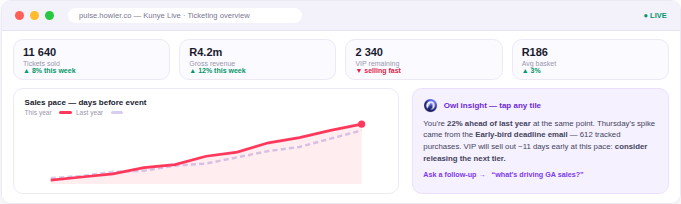
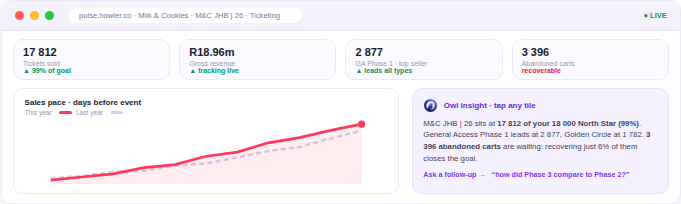
Sales pitch pack v7: personalise for Milk & Cookies with live Pulse data
Mockups now carry Milk & Cookies' real numbers pulled live via the Pulse
connector on 2026-07-09: M&C JHB | 26 at 17 812 tickets / R18.96m gross
(99% of the 18 000 North Star), ticket-type breakdown (GA Phase 1 leads at
2 877, Golden Circle 1 782), real segments (Abandoned carts 3 396, Buyer
Age 18-22 1 775), the real draft campaign subject line, and 16 487 combined
check-ins. Deck title slide marked prepared-for.

Claude-Session: https://claude.ai/code/session_016kfeoZ1Zgn8t5cLdc8YKFo

diff --git a/docs/sales-collateral/pulse-pitch.src.html b/docs/sales-collateral/pulse-pitch.src.html
@@ -66,7 +66,7 @@
   .goalcard h5 { font-size: 8px; margin-bottom: 1.2mm; }
   .goalcard .lbl { display: flex; justify-content: space-between; font-size: 7px; color: #55556d; margin-bottom: 1mm; }
   .gbar { height: 2.4mm; border-radius: 99px; background: #efecf8; overflow: hidden; }
-  .gbar i { display: block; height: 100%; width: 78%; border-radius: 99px; background: linear-gradient(90deg, #FF385C, #FF6B35); }
+  .gbar i { display: block; height: 100%; width: 99%; border-radius: 99px; background: linear-gradient(90deg, #FF385C, #FF6B35); }
   .goalcard .pace { font-size: 7px; color: #059669; font-weight: 800; margin-top: 1.2mm; }
   .kpis { display: flex; gap: 2mm; margin: 0 2.5mm 3mm; }
   .kpi { flex: 1; border: 1px solid #ece9f5; border-radius: 2.6mm; padding: 2mm; }
@@ -283,7 +283,7 @@
   <div class="hero">
     <div style="display:flex; align-items:center; gap:3mm; margin-bottom:3mm;">
       <img src="howler-logo.png" style="width:9mm; height:9mm; border-radius:2.2mm;">
-      <div class="kicker" style="margin-bottom:0;">Howler presents</div>
+      <div class="kicker" style="margin-bottom:0;">Howler presents · prepared for Milk &amp; Cookies</div>
     </div>
     <h1>Pulse<span class="grad-text">.</span> Your event's data,<br>finally <span class="grad-text">working for you</span>.</h1>
     <p class="sub"><b>Pulse is the Experience OS for event organisers</b>: one white-label platform that turns your ticketing, cashless and web data into <b>insight → action → results</b>. Live dashboards, an AI analyst that explains your numbers, scheduled briefings, and a full email/SMS campaign engine, all powered by the same governed data, all scoped to you, all in your brand, all on your phone.</p>
@@ -310,13 +310,13 @@
   <div class="quote">"It's not dashboards <i>and</i> email <i>and</i> reports, it's one living loop. Your data tells you what to do, you do it in the same place, and the result makes the next call smarter. The longer you use Pulse, the better it gets."</div>
 
     <div class="browser" style="margin-top:4mm;">
-    <div class="b-bar"><i></i><i></i><i></i><span>pulse.howler.co · Kunye Live · Ticketing overview</span><em>● LIVE</em></div>
+    <div class="b-bar"><i></i><i></i><i></i><span>pulse.howler.co · Milk &amp; Cookies · M&amp;C JHB | 26 · Ticketing</span><em>● LIVE</em></div>
     <div class="b-body">
       <div class="dkpis">
-        <div class="dk"><div class="v">11 640</div><div class="k">Tickets sold</div><div class="d">▲ 8% this week</div></div>
-        <div class="dk"><div class="v">R4.2m</div><div class="k">Gross revenue</div><div class="d">▲ 12% this week</div></div>
-        <div class="dk"><div class="v">2 340</div><div class="k">VIP remaining</div><div class="d down">▼ selling fast</div></div>
-        <div class="dk"><div class="v">R186</div><div class="k">Avg basket</div><div class="d">▲ 3%</div></div>
+        <div class="dk"><div class="v">17 812</div><div class="k">Tickets sold</div><div class="d">▲ 99% of goal</div></div>
+        <div class="dk"><div class="v">R18.96m</div><div class="k">Gross revenue</div><div class="d">▲ tracking live</div></div>
+        <div class="dk"><div class="v">2 877</div><div class="k">GA Phase 1 · top seller</div><div class="d">▲ leads all types</div></div>
+        <div class="dk"><div class="v">3 396</div><div class="k">Abandoned carts</div><div class="d down">recoverable</div></div>
       </div>
       <div style="display:flex; gap:3.5mm;">
         <div class="chartcard">
@@ -331,13 +331,13 @@
         </div>
         <div class="owlpanel">
           <h6><img src="owl-mark.png" style="width:4mm; height:4mm; border-radius:50%;"> Owl insight · tap any tile</h6>
-          <p>You're <b>22% ahead of last year</b> at the same point. Thursday's spike came from the <b>Early-bird deadline email</b>: 612 tracked purchases. VIP will sell out ~11 days early at this pace: <b>consider releasing the next tier.</b></p>
-          <div class="ask">Ask a follow-up → &nbsp; “what's driving GA sales?”</div>
+          <p>M&amp;C JHB | 26 sits at <b>17 812 of your 18 000 North Star (99%)</b>. General Access Phase 1 leads at 2 877, Golden Circle at 1 782. <b>3 396 abandoned carts</b> are waiting: recovering just 6% of them closes the goal.</p>
+          <div class="ask">Ask a follow-up → &nbsp; “how did Phase 3 compare to Phase 2?”</div>
         </div>
       </div>
     </div>
   </div>
-  <div class="mockcap">Live dashboards with the Owl one tap away, every number explained, every insight one tap from action.</div>
+  <div class="mockcap">Live dashboards with the Owl one tap away. Screens are illustrative; the numbers are Milk &amp; Cookies' real Pulse data, pulled live on 9 July 2026.</div>
 
 <div class="foot"><span style="display:flex; align-items:center; gap:1.6mm;"><img src="howler-logo.png" style="width:3.6mm; height:3.6mm; border-radius:1mm;"><b>Pulse</b> · The Experience OS by Howler</span><span>howler-pulse-v2.onrender.com</span><span>Page 1 of 7</span></div>
 </div>
@@ -388,24 +388,24 @@
   </div>
 
     <div class="mailwin" style="margin-top:4mm;">
-    <div class="m-bar">✉️ <b>☀️ Your Friday briefing · Kunye Live</b><span>from Kunye Live via Pulse · Fridays 07:00 · to the exec team</span></div>
+    <div class="m-bar">✉️ <b>☀️ Your Friday briefing · Milk &amp; Cookies</b><span>from Milk &amp; Cookies via Pulse · Fridays 07:00 · to the exec team</span></div>
     <div class="m-body">
       <div style="flex:1.25;">
-        <div style="font-size:8.4px; color:#44445c; line-height:1.55;"><b style="color:#1a1a2e;">Morning! The short version:</b> a strong week, 1 208 tickets (+8%), revenue R4.2m (+12%). VIP is 61% sold and pacing to sell out early. Web traffic dipped Tuesday but converted better than ever.</div>
+        <div style="font-size:8.4px; color:#44445c; line-height:1.55;"><b style="color:#1a1a2e;">Morning! The short version:</b> M&amp;C JHB | 26 stands at 17 812 tickets, 99% of the 18 000 goal, with R18.96m gross. General Access Phase 1 leads (2 877); Golden Circle holds 1 782. 188 tickets to go.</div>
         <div class="m-chips">
-          <div class="m-chip"><b>1 208</b>tickets this week <span class="up">▲ 8%</span></div>
-          <div class="m-chip"><b>R4.2m</b>gross revenue <span class="up">▲ 12%</span></div>
-          <div class="m-chip"><b>61%</b>VIP sold</div>
-          <div class="m-chip"><b>3.1%</b>site conversion <span class="up">▲ 0.4pt</span></div>
+          <div class="m-chip"><b>17 812</b>tickets sold <span class="up">▲ 99% of goal</span></div>
+          <div class="m-chip"><b>R18.96m</b>gross revenue</div>
+          <div class="m-chip"><b>1 782</b>Golden Circle</div>
+          <div class="m-chip"><b>3 396</b>abandoned carts</div>
         </div>
       </div>
       <div style="flex:1; border-left:1px solid #efecf8; padding-left:4mm;">
         <div style="font-size:7.4px; font-weight:800; color:#9a97ad; text-transform:uppercase; letter-spacing:.8px; margin-bottom:1.4mm;">Suggested actions</div>
-        <div class="m-act">→ <b>Release the next VIP tier</b> before the weekend surge<br>→ <b>Recover 96 abandoned carts</b>: start the drip journey<br>→ <b>Boost the Thursday email</b> to the lookalike audience</div>
+        <div class="m-act">→ <b>Recover the 3 396 abandoned carts</b>: 188 sales closes the goal<br>→ <b>Send “Everyone's going. Are you? 🍪”</b> to the 18–22 audience (1 775 reachable)<br>→ <b>Set the sell-out alert</b> at 18 000 tickets</div>
       </div>
     </div>
   </div>
-  <div class="mockcap">The scheduled digest: a role-specific read of the week, in their inbox, with the next actions attached.</div>
+  <div class="mockcap">The scheduled digest, built on Milk &amp; Cookies' live numbers: a role-specific read of the week, with the next actions attached.</div>
 
 <div class="foot"><span style="display:flex; align-items:center; gap:1.6mm;"><img src="howler-logo.png" style="width:3.6mm; height:3.6mm; border-radius:1mm;"><b>Pulse</b> · The Experience OS by Howler</span><span>howler-pulse-v2.onrender.com</span><span>Page 2 of 7</span></div>
 </div>
@@ -440,20 +440,20 @@
     <!-- Phone 1: home briefing -->
     <div class="phone">
       <div class="notch"></div>
-      <div class="p-head"><div class="p-logo">K</div><b>Kunye Live</b><span>⚙</span></div>
+      <div class="p-head"><div class="p-logo" style="font-size:6px;">M&amp;C</div><b>Milk &amp; Cookies</b><span>⚙</span></div>
       <div class="brief">
         <h5>🦉 Your morning briefing</h5>
-        <p><b>Strong night:</b> 412 tickets sold (+31% vs same day last event). VIP is pacing to sell out ~11 days early, <b>consider releasing the next tier</b>. <b>Tap to act →</b></p>
+        <p><b>So close:</b> M&amp;C JHB | 26 is at 17 812 of 18 000 (99%). 3 396 abandoned carts are recoverable, <b>a small recovery drip closes the goal</b>. <b>Tap to act →</b></p>
       </div>
       <div class="goalcard">
-        <h5>🎯 North Star · 15 000 tickets</h5>
-        <div class="lbl"><span>11 640 sold</span><span>78%</span></div>
+        <h5>🎯 North Star · 18 000 tickets</h5>
+        <div class="lbl"><span>17 812 sold</span><span>99%</span></div>
         <div class="gbar"><i></i></div>
-        <div class="pace">▲ Ahead of pace · projected 15 400</div>
+        <div class="pace">▲ On track · 188 to go</div>
       </div>
       <div class="kpis">
-        <div class="kpi"><div class="v">R4.2m</div><div class="k">Gross revenue</div><div class="d">▲ 12% WoW</div></div>
-        <div class="kpi"><div class="v">2 340</div><div class="k">VIP remaining</div><div class="d">▼ selling fast</div></div>
+        <div class="kpi"><div class="v">R18.96m</div><div class="k">Gross revenue</div><div class="d">▲ live</div></div>
+        <div class="kpi"><div class="v">3 396</div><div class="k">Abandoned carts</div><div class="d">recoverable</div></div>
       </div>
     </div>
     <!-- Phone 2: WhatsApp Owl -->
@@ -462,20 +462,20 @@
       <div class="wa">
         <div class="wa-head"><img src="owl-mark.png" style="width:5.5mm; height:5.5mm; border-radius:50%;"><div><b>Pulse Owl</b><span>online</span></div></div>
         <div class="wa-body">
-          <div class="bub me">how are ticket sales looking today?</div>
-          <div class="bub owl"><b>Good morning! 3 187 tickets</b> so far today, 22% ahead of the same day last year. General is your fastest mover.
-            <div class="mini-chart"><i style="height:34%"></i><i style="height:46%"></i><i style="height:42%"></i><i style="height:58%"></i><i style="height:71%"></i><i style="height:64%"></i><i style="height:92%"></i></div>
-            <div class="cap">Daily sales, last 7 days</div>
+          <div class="bub me">how are ticket sales looking for JHB?</div>
+          <div class="bub owl"><b>M&amp;C JHB | 26: 17 812 tickets</b>, that's 99% of your 18 000 goal. General Access Phase 1 leads with 2 877.
+            <div class="mini-chart"><i style="height:100%"></i><i style="height:56%"></i><i style="height:78%"></i><i style="height:34%"></i><i style="height:62%"></i><i style="height:37%"></i></div>
+            <div class="cap">GA P1 · P2 · P3 · P4 · Golden Circle · VIP</div>
           </div>
-          <div class="replies"><span>Break down by ticket type</span><span>Compare to last year</span><span>Alert me at 5 000</span></div>
+          <div class="replies"><span>How many abandoned carts?</span><span>Compare to Cape Town</span><span>Alert me at 18 000</span></div>
         </div>
       </div>
     </div>
     <!-- ChatGPT / Claude card -->
     <div style="display:flex; flex-direction:column; gap:4mm; width:62mm;">
       <div class="chatgpt">
-        <div class="q">How big is the VIP segment, and how did the launch campaign do?</div>
-        <div class="a">Your <b>VIP Buyers</b> segment currently holds <b>1 842 contactable people</b>. The launch campaign reached 14 210, with a <b>38% open rate</b> and <b>612 tracked purchases</b>.</div>
+        <div class="q">How big is our abandoned-cart audience, and where are we against the ticket goal?</div>
+        <div class="a">Your <b>Abandoned carts</b> segment holds <b>3 396 contactable people</b>. Ticket sales stand at <b>17 812 of the 18 000 North Star (99%)</b>, with General Access Phase 1 the top seller at 2 877.</div>
         <div class="src" style="display:flex; align-items:center; gap:1.4mm;"><img src="owl-mark.png" style="width:3mm; height:3mm; border-radius:50%;"> in ChatGPT &amp; Claude · via the Pulse connector · scoped to your events</div>
       </div>
       <div style="border:1px solid #ece9f5; border-radius:3mm; background:#fbfaff; padding:3mm 3.5mm;">
@@ -520,11 +520,11 @@
     <div class="mk"><h4>📣 Live data → your ad accounts</h4><p>Push any segment to <b>Meta or TikTok as a Custom Audience</b>: hashed before it leaves, mirrored daily, leavers removed automatically. Exclude buyers from prospecting. Then see <b>spend, CPC and ROAS next to actual ticket sales</b>.</p></div>
     <div class="journey">
       <h4>🗺 Complex journeys, simple setup</h4>
-      <div class="jrow"><div class="jl">1 · Reminder email</div><div class="jbar"><i style="width:100%"></i></div><div class="jv">2 480 sent</div></div>
+      <div class="jrow"><div class="jl">1 · Reminder email</div><div class="jbar"><i style="width:100%"></i></div><div class="jv">3 396 enrolled</div></div>
       <div class="jrow"><div class="jl">2 · +4h nudge</div><div class="jbar"><i style="width:64%"></i></div><div class="jv">58% opened</div></div>
       <div class="jrow"><div class="jl">3 · +24h promo SMS</div><div class="jbar"><i style="width:38%"></i></div><div class="jv">31% clicked</div></div>
-      <div class="jconv">✓ 214 recovered purchases · buyers auto-exit the journey</div>
-      <p style="font-size:9.6px; color:#55556d; margin-top:2mm; line-height:1.5;">Timed multi-step drips with per-step copy, promo and delays, true real-time abandoned-cart, or work an existing list forward.</p>
+      <div class="jconv">✓ 188 recoveries would close the 18 000 goal · buyers auto-exit</div>
+      <p style="font-size:9.6px; color:#55556d; margin-top:2mm; line-height:1.5;">Your real Abandoned carts segment (3 396 people) worked automatically: timed steps, per-step copy and promo, true real-time enrolment. Step rates shown are illustrative.</p>
     </div>
     <div class="mk"><h4>✨ An AI creative studio inside</h4><p>The Owl drafts the copy, designs the <b>whole themed email layout</b>, and draws <b>on-brand banners</b> from a one-line prompt. Pick a theme, tweak in the drag-and-drop builder, save as a template. Any campaign in any language.</p></div>
     <div class="mk"><h4>💰 Attribution you can defend</h4><p>Per-recipient <b>opens, clicks and tracked purchases</b>; UTM on every link; unique-per-person promo codes that tie a sale to a send. Campaign results flow back into the same dashboards you plan from.</p></div>
@@ -535,13 +535,13 @@
 
   <div class="pairrow">
     <div class="builder">
-      <div class="bd-bar">✨ Owl email designer<span>theme: Bold · brand: Kunye Live</span></div>
+      <div class="bd-bar">✨ Owl email designer<span>theme: Bold · brand: Milk &amp; Cookies</span></div>
       <div class="bd-body">
         <div class="mailprev">
-          <div class="mp-head"><div class="lg"></div><b>Kunye Live</b></div>
-          <div class="hero-b">LAST CHANCE ⚡</div>
+          <div class="mp-head"><div class="lg"></div><b>Milk &amp; Cookies</b></div>
+          <div class="hero-b">LAST CRUMBS 🍪</div>
           <div class="mp-body">
-            <h6>Early-bird ends Sunday, {{name}}</h6>
+            <h6>Everyone's going. Are you, {{name}}?</h6>
             <div class="tline"></div><div class="tline"></div><div class="tline w70"></div>
             <span class="mp-btn">Get your tickets →</span>
           </div>
@@ -551,7 +551,7 @@
           <div class="themechips"><span class="tc">Clean</span><span class="tc on">Bold ✓</span><span class="tc">Warm</span><span class="tc">Minimal</span></div>
           <h6 style="margin-top:1mm;">Blocks</h6>
           <div class="blockrow">☰ &nbsp;Heading</div>
-          <div class="blockrow">🖼 &nbsp;AI banner, “sunset festival, last chance”</div>
+          <div class="blockrow">🖼 &nbsp;AI banner, “picnic at dusk, last crumbs”</div>
           <div class="blockrow">🔘 &nbsp;Button → checkout (tracked)</div>
           <div class="aibtn">✨ Design with AI</div>
         </div>
@@ -560,14 +560,14 @@
     <div class="adsync">
       <div class="bd-bar">📣 Ad audiences<span>mirrored to your ad accounts</span></div>
       <div class="ad-body">
-        <div class="adrow"><div class="adlogo meta">f</div><div class="t"><b>VIP Buyers → Meta Custom Audience</b><span>1 842 synced · ≈1 500 matched · auto-sync daily</span></div><span class="adchip">● Healthy</span></div>
-        <div class="adrow"><div class="adlogo tt">♪</div><div class="t"><b>Abandoned carts → TikTok</b><span>2 306 synced · refreshed 2h ago</span></div><span class="adchip">● Healthy</span></div>
-        <div class="adrow"><div class="adlogo meta">f</div><div class="t"><b>Already bought → exclusion list</b><span>mirrored, buyers leave the ads automatically</span></div><span class="adchip">● Healthy</span></div>
+        <div class="adrow"><div class="adlogo meta">f</div><div class="t"><b>Abandoned carts → Meta Custom Audience</b><span>3 396 synced · auto-sync daily</span></div><span class="adchip">● Healthy</span></div>
+        <div class="adrow"><div class="adlogo tt">♪</div><div class="t"><b>Buyer Age 18 to 22 → TikTok</b><span>1 775 synced · 1 750 SMS-reachable too</span></div><span class="adchip">● Healthy</span></div>
+        <div class="adrow"><div class="adlogo meta">f</div><div class="t"><b>Already bought → exclusion list</b><span>17 812 buyers leave the ads automatically</span></div><span class="adchip">● Healthy</span></div>
       </div>
       <div class="ad-note">🔒 Emails &amp; phones are hashed before they leave Pulse, the platforms never see raw contact details.</div>
     </div>
   </div>
-  <div class="mockcap">The Owl designs the email; Pulse keeps your ad audiences mirrored, fresh cohorts in, buyers out, every day.</div>
+  <div class="mockcap">The Owl designs the email (that subject line is a real draft in your account); the audiences are your real segments, mirrored daily.</div>
 
 <div class="foot"><span style="display:flex; align-items:center; gap:1.6mm;"><img src="howler-logo.png" style="width:3.6mm; height:3.6mm; border-radius:1mm;"><b>Pulse</b> · The Experience OS by Howler</span><span>howler-pulse-v2.onrender.com</span><span>Page 4 of 7</span></div>
 </div>
@@ -597,7 +597,7 @@
           <div class="ob-stat"><div class="v">142</div><div class="k">devices deployed</div></div>
           <div class="ob-stat"><div class="v">96%</div><div class="k">online now</div></div>
           <div class="ob-stat"><div class="v warn">3</div><div class="k">open issues</div></div>
-          <div class="ob-stat"><div class="v">18 460</div><div class="k">through gates</div></div>
+          <div class="ob-stat"><div class="v">16 487</div><div class="k">check-ins</div></div>
         </div>
         <div class="heat">
           <h5>Station activity heat map</h5>

diff --git a/docs/sales-collateral/make-deck.src.js b/docs/sales-collateral/make-deck.src.js
@@ -52,7 +52,7 @@ s.addText([
 s.addText('Your event’s data, finally working for you.', { x: 0.9, y: 3.45, w: 11.5, h: 0.8, fontSize: 30, bold: true, color: 'D8D4F0', fontFace: F });
 s.addText('The Experience OS for event organisers: live dashboards, an AI analyst, and a full email/SMS campaign engine, all powered by the same governed data. Insight → action → results, in your brand, on your phone.', { x: 0.9, y: 4.5, w: 10.8, h: 1.1, fontSize: 15, color: 'A9A5C6', fontFace: F, lineSpacing: 22 });
 gradBar(s, 0.9, 5.9, 3.2, 0.07);
-s.addText('Sales deck · 2026', { x: 0.9, y: 6.5, w: 5, h: 0.4, fontSize: 11, color: '6E6A8F', fontFace: F });
+s.addText('Prepared for Milk & Cookies · July 2026', { x: 0.9, y: 6.5, w: 5, h: 0.4, fontSize: 11, color: '6E6A8F', fontFace: F });
 
 /* ---------- 2 · THE PROBLEM ---------- */
 s = contentSlide('The problem: five tools, zero loop', 'how event teams work today', NAVY, 2);